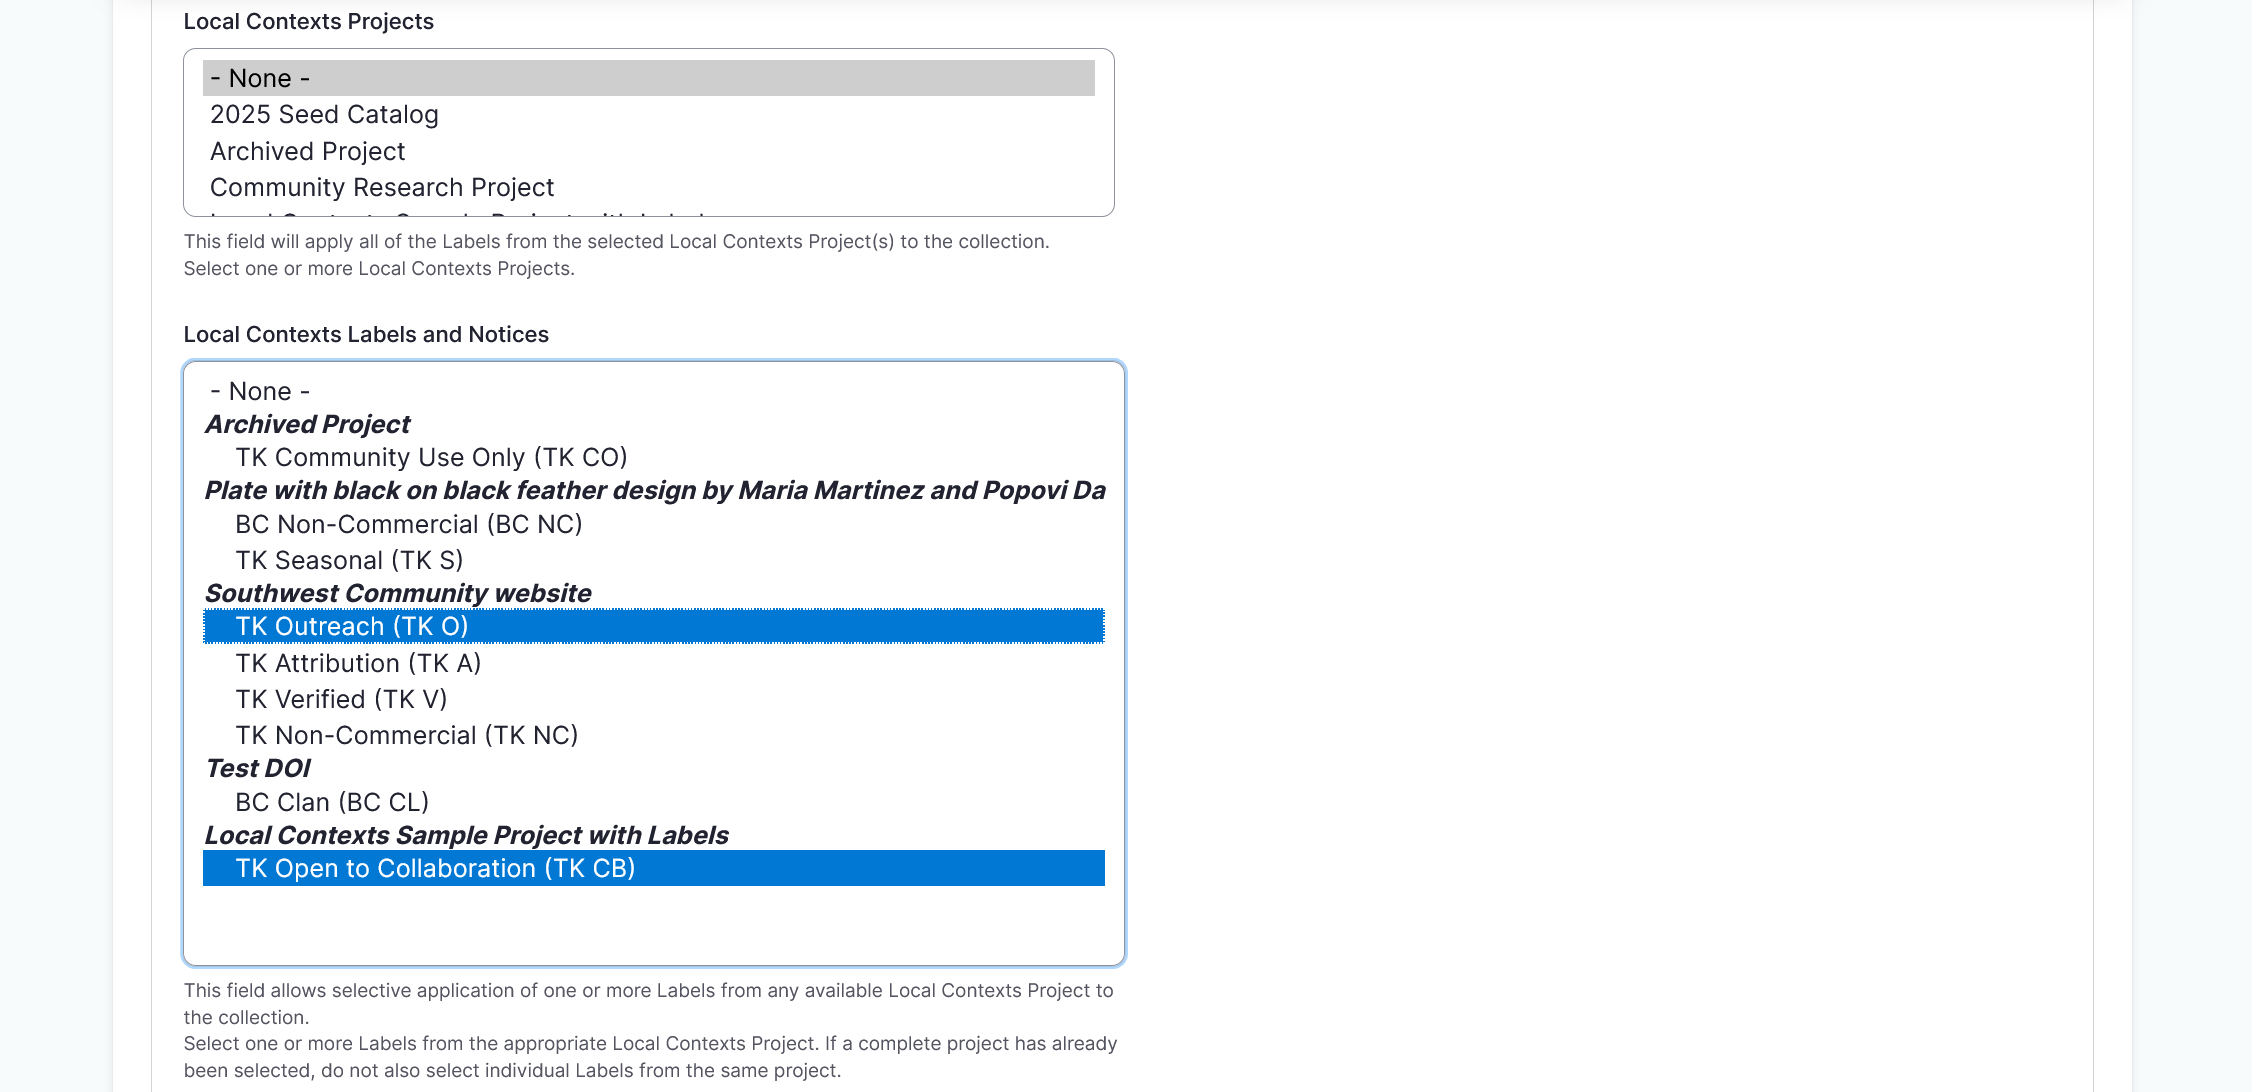
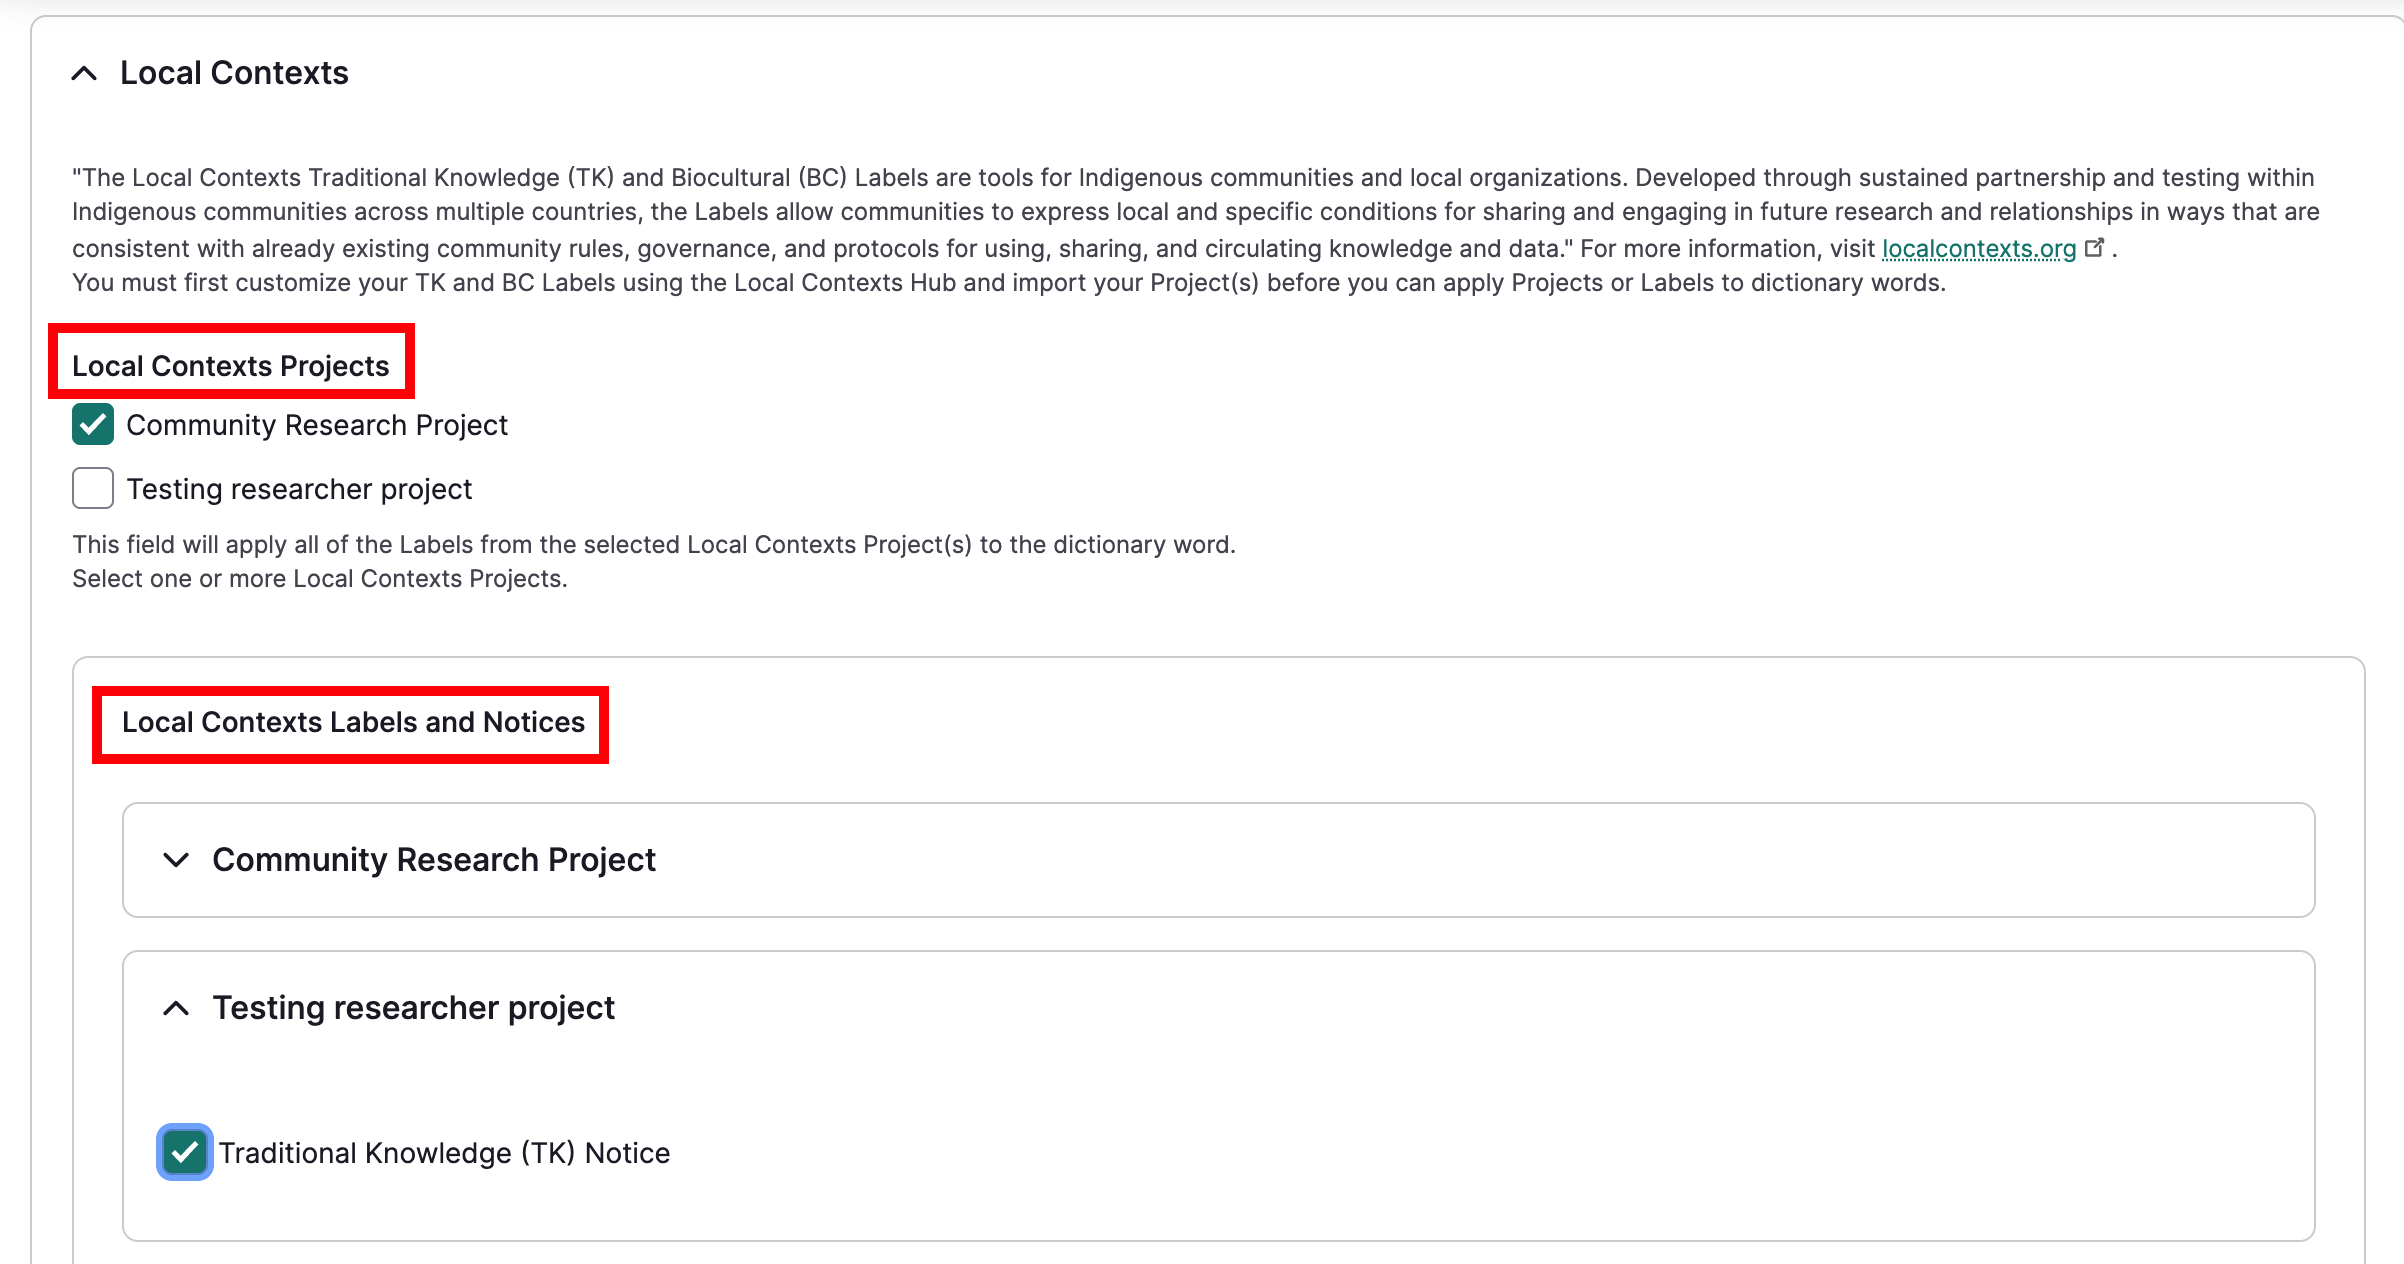
Updating all Local Contexts screenshots in content
Updated screenshots and verbiage to reflect checkboxes.

diff --git a/docs/dictionary/WordLists.md b/docs/dictionary/WordLists.md
@@ -85,17 +85,14 @@ In the content section of the dashboard, select the **add word list** link.
 
 4. Use the *Location* field to provide a taxonomic location term for your word list. This can be a named place, or places, that are closely connected to the word list. Examples include the place names that use words from the word list and the region where the words of the word list originated. Include as many locasions as needed. Select exisitng locations or add new ones. Drag to reorder locations. Select the "x" to delete.
 
-5. Use the *Local Contexts* field to apply Traditional Knowledge labels to your word list.
+5. Use the **Local Contexts** field to apply Traditional Knowledge labels to your word list. To start a project or for more information refer to [Understanding the Local Contexts Hub](../local-contexts/UnderstandingTheLocalContextsHub.md) or visit [Local Contexts](https://localcontexts.org/).
+
+    To apply all of the Labels in a project, select a project from the **Local Contexts Projects** list.
+
+    To apply one or more labels from a project, expand one of the projects listed under **Local Contexts Labels and Notices** and select the label(s) you would like to apply.
 
     !!! tip
-        To start a project or for more information on Local Contexts projects, labels, and notices, visit [Local Contexts](https://localcontexts.org/).
-
-    !!! tip
-         See [Apply Labels and Notices to Site Content](../local-contexts/ApplyLabelsAndNoticesToSiteContent.md) for more detail on applying labels and notices.
-
-    1. Select your Local Contexts project from the dropdown.
-
-    2. Select Local Contexts labels and notices to assign to the word list.
+        If a complete project has already been selected, you will not be able to select individual labels from that project, since those labels have already been applied.
 
     ![Screenshot of the Local Contexts field with labels and notices assigned](../_embeds/createcollections7.png)
 

diff --git a/docs/collections/CreateCollection.md b/docs/collections/CreateCollection.md
@@ -77,13 +77,15 @@ Select **Collection** to begin creating your collection. The remaining steps to 
 
 3. Add a *Location Description* to provide additional context and depth to the location(s) connected to the collection. This is a full HTML field that also supports additional media.
 4. Use the *Location* field to provide a taxonomic location term for your collection. This can be a named place, or places, that are closely connected to the collection. Examples include the location where a photo was taken, places named in a story, or the site where an object was created.
-5. Use the *Local Contexts* field to apply Traditional Knowledge labels to your collection. 
-    
-    !!! tip
-        To start a project or for more information on Local Contexts projects, labels, and notices, visit [Local Contexts](https://localcontexts.org/).
 
-    - Select your Local Contexts project from the dropdown. 
-    - Select Local Contexts labels and notices to assign to the collection.  
+5. Use the **Local Contexts** field to apply Traditional Knowledge labels to your collection. To start a project or for more information refer to [Understanding the Local Contexts Hub](../local-contexts/UnderstandingTheLocalContextsHub.md) or visit [Local Contexts](https://localcontexts.org/).
+
+    To apply all of the Labels in a project, select a project from the **Local Contexts Projects** list.
+
+    To apply one or more labels from a project, expand one of the projects listed under **Local Contexts Labels and Notices** and select the label(s) you would like to apply.
+
+    !!! tip
+        If a complete project has already been selected, you will not be able to select individual labels from that project, since those labels have already been applied.
 
     ![Screenshot of the Local Contexts field with labels and notices assigned](../_embeds/createcollections7.png)
       

diff --git a/docs/digital-heritage-items/CreateDHItem.md b/docs/digital-heritage-items/CreateDHItem.md
@@ -129,16 +129,17 @@ The *Description* field can include physical characteristics (i.e. photograph, m
 
 ### Local Contexts Projects
 
-Use the **Local Contexts** field to apply Traditional Knowledge labels to your collection. To start a project or for more information refer to [Understanding the Local Contexts Hub](../local-contexts/UnderstandingTheLocalContextsHub.md) or visit [Local Contexts](https://localcontexts.org/).
+Use the **Local Contexts** field to apply Traditional Knowledge labels to your digital heritage item. To start a project or for more information refer to [Understanding the Local Contexts Hub](../local-contexts/UnderstandingTheLocalContextsHub.md) or visit [Local Contexts](https://localcontexts.org/).
 
-Select your Local Contexts project from the list. This field will apply all of the Labels from the selected Local Contexts Project(s) to the digital heritage item.
+To apply all of the Labels in a project, select a project from the **Local Contexts Projects** list.
 
-### Local Contexts Labels
 
-Select one or more Labels from the appropriate Local Contexts Project. 
+### Local Contexts Labels and Notices
+
+To apply one or more labels from a project, expand one of the projects listed under **Local Contexts Labels and Notices** and select the label(s) you would like to apply.
 
 !!! tip
-    If a complete project has already been selected, do not also select individual Labels from the same project. 
+    If a complete project has already been selected, you will not be able to select individual labels from that project, since those labels have already been applied.
 
 ![Screenshot of Local Contexts project and labels fields highlighted](../_embeds/dh10.png)
 

diff --git a/docs/dictionary/CreateDictionaryWord.md b/docs/dictionary/CreateDictionaryWord.md
@@ -201,15 +201,16 @@ Include as many locations as needed. Select existing locations or add new ones. 
 
 ![Screenshot of the locations taxonomy field with terms entered.](../_embeds/dictionary-word-10.png)
 
-### Local Contexts
+### Local Contexts Projects
 
 Use the **Local Contexts** field to apply Traditional Knowledge labels to your dictionary word. To start a project or for more information refer to [Understanding the Local Contexts Hub](../local-contexts/UnderstandingTheLocalContextsHub.md) or visit [Local Contexts](https://localcontexts.org/).
 
-To apply all the labels of a project to your item, select a project listed under **Local Contexts Projects**
+To apply all of the Labels in a project, select a project from the **Local Contexts Projects** list.
 
-### Local Contexts Labels
 
-To select one or more labels from a project, expand one of the projects listed under **Local Contexts Labels and Notices** and select the label you would like to apply.
+### Local Contexts Labels and Notices
+
+To apply one or more labels from a project, expand one of the projects listed under **Local Contexts Labels and Notices** and select the label(s) you would like to apply.
 
 !!! tip
     If a complete project has already been selected, you will not be able to select individual labels from that project, since those labels have already been applied.

diff --git a/docs/place-records/CreatePlaceRecord.md b/docs/place-records/CreatePlaceRecord.md
@@ -99,14 +99,18 @@ Text sections are an account of the history of a location. They may include hist
 
 Use the **Local Contexts** field to apply Traditional Knowledge labels to your place record. To start a project or for more information refer to [Understanding the Local Contexts Hub](../local-contexts/UnderstandingTheLocalContextsHub.md) or visit [Local Contexts](https://localcontexts.org/).
 
-Select your Local Contexts project from the list. This field will apply all of the Labels from the selected Local Contexts Project(s) to the place record.
+To apply all of the Labels in a project, select a project from the **Local Contexts Projects** list.
+
 
 ### Local Contexts Labels and Notices
 
-Select one or more Labels from the appropriate Local Contexts Project. 
+To apply one or more labels from a project, expand one of the projects listed under **Local Contexts Labels and Notices** and select the label(s) you would like to apply.
 
 !!! tip
-    If a complete project has already been selected, do not also select individual Labels from the same project. 
+    If a complete project has already been selected, you will not be able to select individual labels from that project, since those labels have already been applied.
+
+![Screenshot of Local Contexts project and labels fields highlighted](../_embeds/dh10.png)
+
 
 ## Related content
 

diff --git a/docs/person-records/PersonRecords.md b/docs/person-records/PersonRecords.md
@@ -162,14 +162,15 @@ Enter a *Location*. This is a named place, or places, that are closely connected
 
 Use the **Local Contexts** field to apply Traditional Knowledge labels to your person record. To start a project or for more information refer to [Understanding the Local Contexts Hub](../local-contexts/UnderstandingTheLocalContextsHub.md) or visit [Local Contexts](https://localcontexts.org/).
 
-Select your Local Contexts project from the list. This field will apply all of the Labels from the selected Local Contexts Project(s) to the person record.
+To apply all of the Labels in a project, select a project from the **Local Contexts Projects** list.
+
 
 ### Local Contexts Labels and Notices
 
-Select one or more Labels from the appropriate Local Contexts Project. 
+To apply one or more labels from a project, expand one of the projects listed under **Local Contexts Labels and Notices** and select the label(s) you would like to apply.
 
 !!! tip
-    If a complete project has already been selected, do not also select individual Labels from the same project. 
+    If a complete project has already been selected, you will not be able to select individual labels from that project, since those labels have already been applied.
 
 ![Screenshot of Local Contexts project and labels fields highlighted](../_embeds/person13.png)
 
